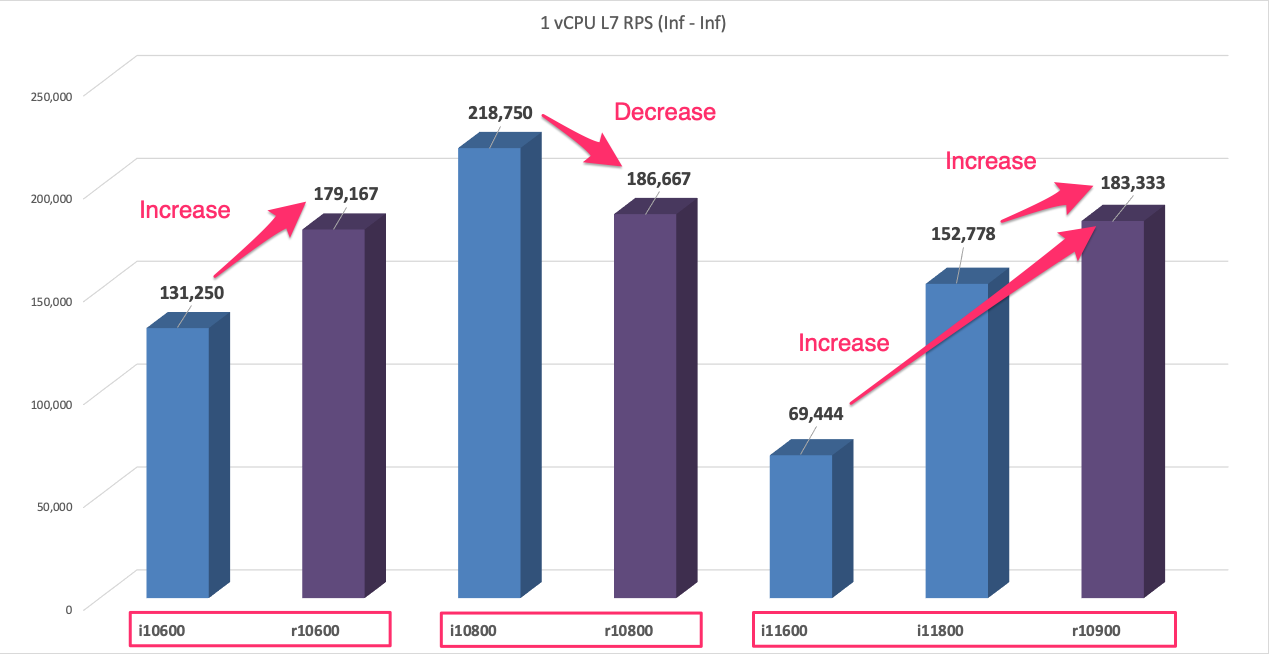
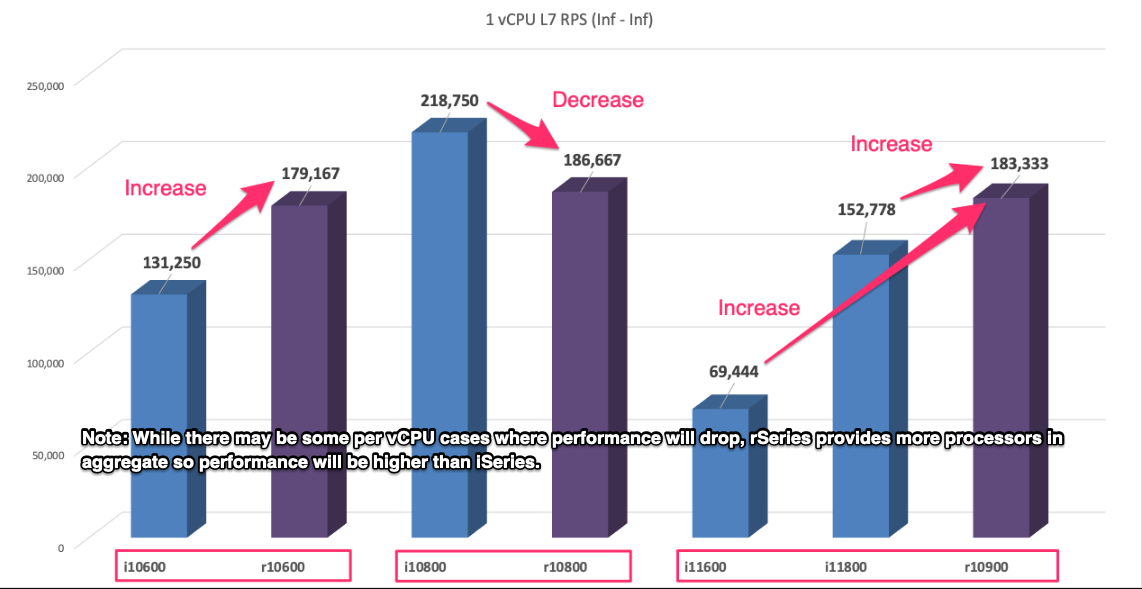
perf&sizing image updates

diff --git a/docs/rseries_performance_and_sizing.rst b/docs/rseries_performance_and_sizing.rst
@@ -133,7 +133,7 @@ To see how this translates into real performance, it is good to look at a Layer7
   :align: center
   :scale: 90%
 
-Because each appliance has a different number of CPUs, a common sizing exercise is to look at the per vCPU performance by using the formulas above to come up with a per vCPU metric. In the graph below, it is done for Layer7 RPS (Inf-Inf), but you could use the same math for any metric. The graph below is not derived from a per vCPU test, it is taking a published appliance metric and dividing it by the number of vCPUs (minus the platform vCPUs) to come up with a per vCPU metric. As mentioned above, using the rSeries metric which is (minus the platform CPUs) is the most realistic. As noted below migrating from an i10600 to an r10600 will have better per vCPU performance. This is also the case when migrating from an i11600 or i11800 to an r10900. There is one case where the per vCPU performance is lower. When going from an i10800 to an r10800 the per vCPU metrics are lower on rSeries even though the aggregate performance is higher for the entire appliance. This is due to the speed of the processors, but since there are more processors, the aggregate performance is higher.
+Because each appliance has a different number of CPUs, a common sizing exercise is to look at the per vCPU performance by using the formulas above to come up with a per vCPU metric. In the graph below, it is done for Layer7 RPS (Inf-Inf), but you could use the same math for any metric. The graph below is not derived from a per vCPU test, it is taking a published appliance metric and dividing it by the number of vCPUs (minus the platform vCPUs) to come up with a per vCPU metric. As mentioned above, using the rSeries metric which is (minus the platform CPUs) is the most realistic. As noted below migrating from an i10600 to an r10600 will have better per vCPU performance. This is also the case when migrating from an i11600 or i11800 to an r10900. There is one case where the per vCPU performance is lower. When going from an i10800 to an r10800 the per vCPU metrics are lower on rSeries **even though the aggregate performance is higher for the entire appliance**. This is due to the speed of the processors, but since there are more processors, the aggregate performance is higher.
 
 .. image:: images/rseries_performance_and_sizing/image12d.png
   :align: center
@@ -204,7 +204,7 @@ To see how this translates into real performance, it is good to look at a Layer7
   :align: center
   :scale: 90%
 
-Because each appliance has a different number of CPUs, a common sizing exercise is to look at the per vCPU performance by using the formulas above to come up with a per vCPU metric. In the graph below it is done for Layer7 RPS (Inf-Inf) but you could use the same math for any metric. Note the graph below is not derived from a per vCPU test, it is taking a published appliance metric and dividing it by the number of vCPUs (minus the platform vCPUs) to come up with a per vCPU metric. As mentioned above using the rSeries metric which is (minus the platform CPUs) is the most realistic. As you will note below, migrating from an i5600 to an r5600 will have better per VCPU performance. This is also the case when migrating from an i7600 to an i5900. There are two cases where the per vCPU performance is lower. When going from an i5800 to an r5800 or when going from and i7800 to an r5900 the per vCPU metrics are lower on iSeries. This is due to the speed of the processors.
+Because each appliance has a different number of CPUs, a common sizing exercise is to look at the per vCPU performance by using the formulas above to come up with a per vCPU metric. In the graph below it is done for Layer7 RPS (Inf-Inf) but you could use the same math for any metric. Note the graph below is not derived from a per vCPU test, it is taking a published appliance metric and dividing it by the number of vCPUs (minus the platform vCPUs) to come up with a per vCPU metric. As mentioned above using the rSeries metric which is (minus the platform CPUs) is the most realistic. As you will note below, migrating from an i5600 to an r5600 will have better per VCPU performance. This is also the case when migrating from an i7600 to an i5900. There are two cases where the per vCPU performance is lower. When going from an i5800 to an r5800 or when going from and i7800 to an r5900 the per vCPU metrics are lower on iSeries. The per vCPU metrics are lower on rSeries **even though the aggregate performance is higher for the entire appliance**. This is due to the speed of the processors, but since there are more processors, the aggregate performance is higher.
 
 .. image:: images/rseries_performance_and_sizing/image15d.png
   :align: center
